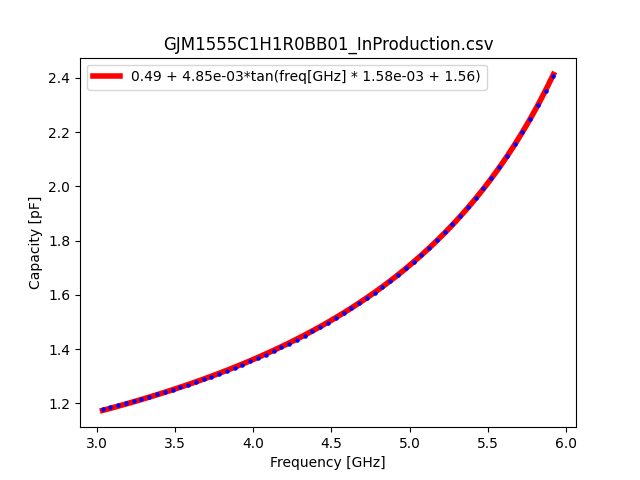
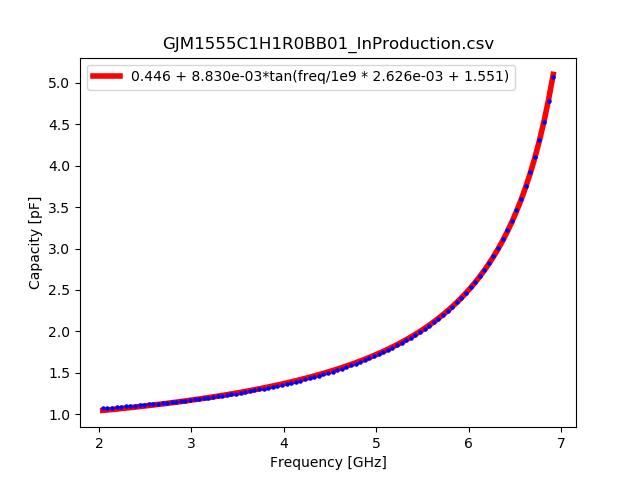
update : func

diff --git a/fitting.py b/fitting.py
@@ -1,20 +1,40 @@
 import sys
 import csv
+import re
 import matplotlib.pyplot as plt
 import numpy as np
 from scipy.optimize import curve_fit
 import glob
-from update_list import get_capacity_from_csv
 
 
-freq_min = 3e9
-freq_max = 6e9
+def get_capacity_from_csv(file_name):
+    a0 = 0
+    t = file_name.split('csv/GJM1555C1')[1].split('BB01_InProduction.csv')[0]
+    t = re.split('[HR]', t)[1:]
+    if t[0] == '':
+        pass
+    else:
+        a0 += float(t[0])
+    a0 += 0.1 * int(t[1][0])
 
-files = glob.glob("csv/*")
-for file_name in files:
+    return a0
+
+def get_capacity_from_png(file_name):
+    a0 = 0
+    t = file_name.split('img/GJM1555C1')[1].split('BB01_InProduction.png')[0]
+    t = re.split('[HR]', t)[1:]
+    if t[0] == '':
+        pass
+    else:
+        a0 += float(t[0])
+    a0 += 0.1 * int(t[1][0])
+
+    return a0
+
+def fitting(file_name, freq_min, freq_max, save_img=True):
 
     if file_name.split('.')[-1] != 'csv':
-        continue
+        return
 
     print("================================================================")
     print("- File path : {}".format(file_name))
@@ -57,22 +77,27 @@ for file_name in files:
     # fit function
     def func(f, a, b, c, d):
         return a + b * np.tan( np.multiply(f, c) + d )
-        return a + b * np.exp( np.multiply(f, c) + d )
+        # return a + b * np.exp( np.multiply(f, c) + d )
 
     # curve fitting
     a0 = get_capacity_from_csv(file_name)
     popt, pcov = curve_fit(func, freq, cap, p0=[a0, 1, 1e-4, 0], maxfev=5000)
 
+    img_file = ''
 
-    plt.scatter(freq, cap, s=5, c='blue', zorder=2)
-    # plt.plot(freq, func(freq, *popt), lw=4, c='red', zorder=1, label='{:.2E} + {:.2E}*exp(freq[GHz] * {:.2E} + {:.2E})'.format(*popt))
-    plt.plot(freq, func(freq, *popt), lw=4, c='red', zorder=1, label='{:.2f} + {:.2e}*tan(freq[GHz] * {:.2e} + {:.2f})'.format(*popt))
-    plt.title(file_name.split('/')[-1])
-    plt.xlabel('Frequency [GHz]')
-    plt.ylabel('Capacity [pF]')
-    plt.legend()
+    if save_img:
+        plt.scatter(freq, cap, s=5, c='blue', zorder=2)
+        # plt.plot(freq, func(freq, *popt), lw=4, c='red', zorder=1, label='{:.2E} + {:.2E}*exp(freq[GHz] * {:.2E} + {:.2E})'.format(*popt))
+        func_str = '{:.3f} + {:.3e}*tan(freq/1e9 * {:.3e} + {:.3f})'.format(*popt)
+        plt.plot(freq, func(freq, *popt), lw=4, c='red', zorder=1, label=func_str)
+        plt.title(file_name.split('/')[-1])
+        plt.xlabel('Frequency [GHz]')
+        plt.ylabel('Capacity [pF]')
+        plt.legend()
 
-    plt.savefig('img/{}.png'.format(file_name.split('/')[-1].split('.csv')[0]))
-    # plt.show()
-    plt.close()
+        plt.savefig('img/{}.png'.format(file_name.split('/')[-1].split('.csv')[0]))
+        # plt.show()
+        plt.close()
+
+    return a0, func_str, img_file
 

diff --git a/update_list.py b/update_list.py
@@ -1,30 +1,6 @@
 import re
 import glob
-
-
-def get_capacity_from_csv(file_name):
-    a0 = 0
-    t = file_name.split('csv/GJM1555C1')[1].split('BB01_InProduction.csv')[0]
-    t = re.split('[HR]', t)[1:]
-    if t[0] == '':
-        pass
-    else:
-        a0 += float(t[0])
-    a0 += 0.1 * int(t[1][0])
-
-    return a0
-
-def get_capacity_from_png(file_name):
-    a0 = 0
-    t = file_name.split('img/GJM1555C1')[1].split('BB01_InProduction.png')[0]
-    t = re.split('[HR]', t)[1:]
-    if t[0] == '':
-        pass
-    else:
-        a0 += float(t[0])
-    a0 += 0.1 * int(t[1][0])
-
-    return a0
+from fitting import fitting
 
 if __name__ == "__main__":
 
@@ -33,15 +9,18 @@ if __name__ == "__main__":
              "\n" \
              "note : use only simsurfing data\n" \
              "\n" \
-             "| label | value |\n" \
-             "| ---   | ---   |\n" 
+             "| label | value | func |\n" \
+             "| ---   | ---   | --- |\n" 
 
     with open('README.md', mode='w') as f:
         f.write(header)
 
     with open('README.md', mode='a') as f:
-        imgs = glob.glob("img/*")
-        for img in sorted(imgs):
-            label = img.split('img/')[1]
-            s = '| [{}]({}) | {:.1f}pF |\n'.format(label, img, get_capacity_from_png(img))
+        csvs = glob.glob("csv/*")
+        for csv in sorted(csvs):
+
+            label = csv.split('csv/')[1]
+            cap, func, img_file = fitting(csv, 2e9, 7e9)
+
+            s = '| [{}]({}) | {:.1f}pF | `{}` |\n'.format(label, img_file, cap, func)
             f.write(s)

diff --git a/README.md b/README.md
@@ -3,19 +3,12 @@ curve fitting for capacitor vs frequency
 
 note : use only simsurfing data
 
-| label | value |
-| ---   | ---   |
-| [GJM1555C1H1R0BB01_InProduction.png](img/GJM1555C1H1R0BB01_InProduction.png) | 1.0pF |
-| [GJM1555C1H1R1BB01_InProduction.png](img/GJM1555C1H1R1BB01_InProduction.png) | 1.1pF |
-| [GJM1555C1H1R2BB01_InProduction.png](img/GJM1555C1H1R2BB01_InProduction.png) | 1.2pF |
-| [GJM1555C1H1R7BB01_InProduction.png](img/GJM1555C1H1R7BB01_InProduction.png) | 1.7pF |
-| [GJM1555C1H1R8BB01_InProduction.png](img/GJM1555C1H1R8BB01_InProduction.png) | 1.8pF |
-| [GJM1555C1H1R9BB01_InProduction.png](img/GJM1555C1H1R9BB01_InProduction.png) | 1.9pF |
-| [GJM1555C1H2R0BB01_InProduction.png](img/GJM1555C1H2R0BB01_InProduction.png) | 2.0pF |
-| [GJM1555C1H2R1BB01_InProduction.png](img/GJM1555C1H2R1BB01_InProduction.png) | 2.1pF |
-| [GJM1555C1H2R2BB01_InProduction.png](img/GJM1555C1H2R2BB01_InProduction.png) | 2.2pF |
-| [GJM1555C1HR40BB01_InProduction.png](img/GJM1555C1HR40BB01_InProduction.png) | 0.4pF |
-| [GJM1555C1HR50BB01_InProduction.png](img/GJM1555C1HR50BB01_InProduction.png) | 0.5pF |
-| [GJM1555C1HR60BB01_InProduction.png](img/GJM1555C1HR60BB01_InProduction.png) | 0.6pF |
-| [GJM1555C1HR70BB01_InProduction.png](img/GJM1555C1HR70BB01_InProduction.png) | 0.7pF |
-| [GJM1555C1HR80BB01_InProduction.png](img/GJM1555C1HR80BB01_InProduction.png) | 0.8pF |
+| label | value | func |
+| ---   | ---   | --- |
+| [GJM1555C1H1R0BB01_InProduction.csv]() | 1.0pF | `0.446 + 8.830e-03*tan(freq/1e9 * 2.626e-03 + 1.551)` |
+| [GJM1555C1H1R1WB01_InProduction.csv]() | 1.1pF | `0.508 + 6.725e-03*tan(freq/1e9 * 1.772e-03 + 1.557)` |
+| [GJM1555C1H1R2BB01_InProduction.csv]() | 1.2pF | `0.515 + 9.518e-03*tan(freq/1e9 * 2.288e-03 + 1.553)` |
+| [GJM1555C1H1R3BB01_InProduction.csv]() | 1.3pF | `0.516 + 1.620e-02*tan(freq/1e9 * 3.588e-03 + 1.544)` |
+| [GJM1555C1H1R5BB01_InProduction.csv]() | 1.5pF | `0.502 + 1.014e-01*tan(freq/1e9 * 1.953e-02 + 1.434)` |
+| [GJM1555C1H1R6BB01_InProduction.csv]() | 1.6pF | `0.529 + 1.287e-01*tan(freq/1e9 * 2.396e-02 + 1.408)` |
+| [GJM1555C1HR90BB01_InProduction.csv]() | 0.9pF | `0.462 + 4.221e-03*tan(freq/1e9 * 1.436e-03 + 1.559)` |
